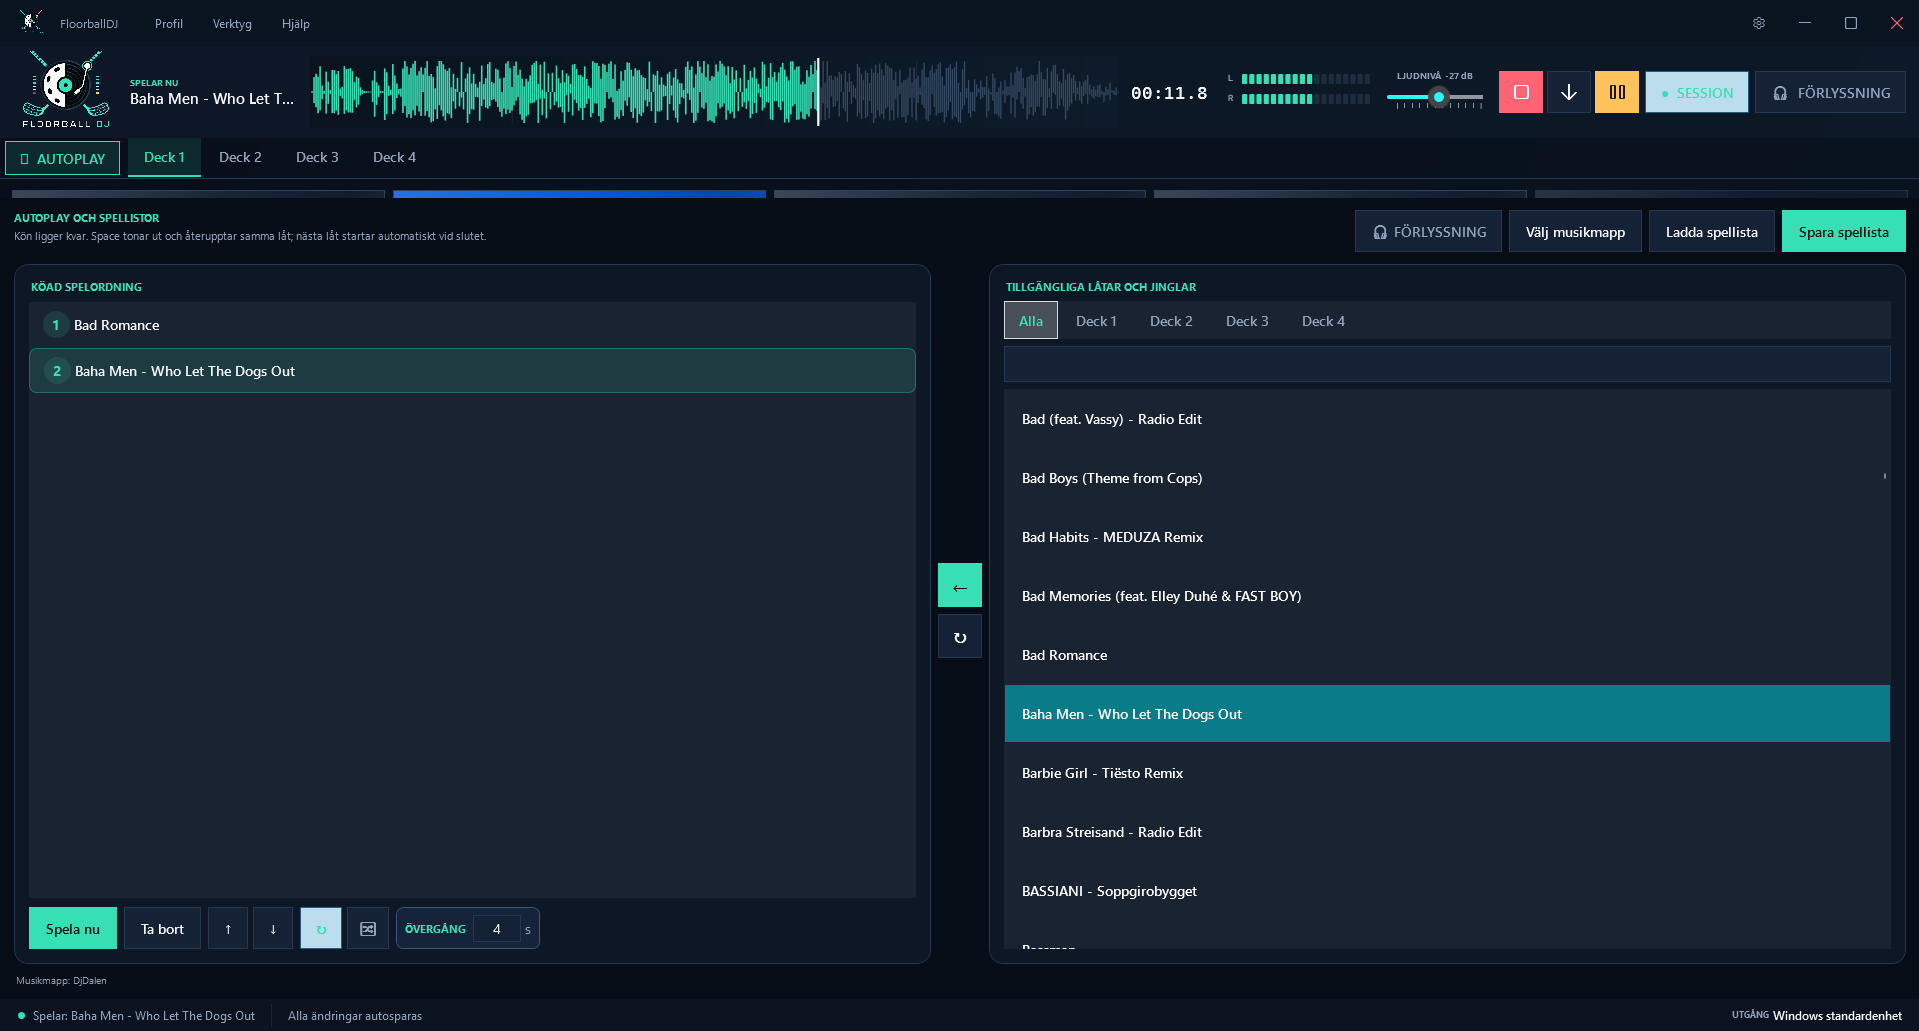
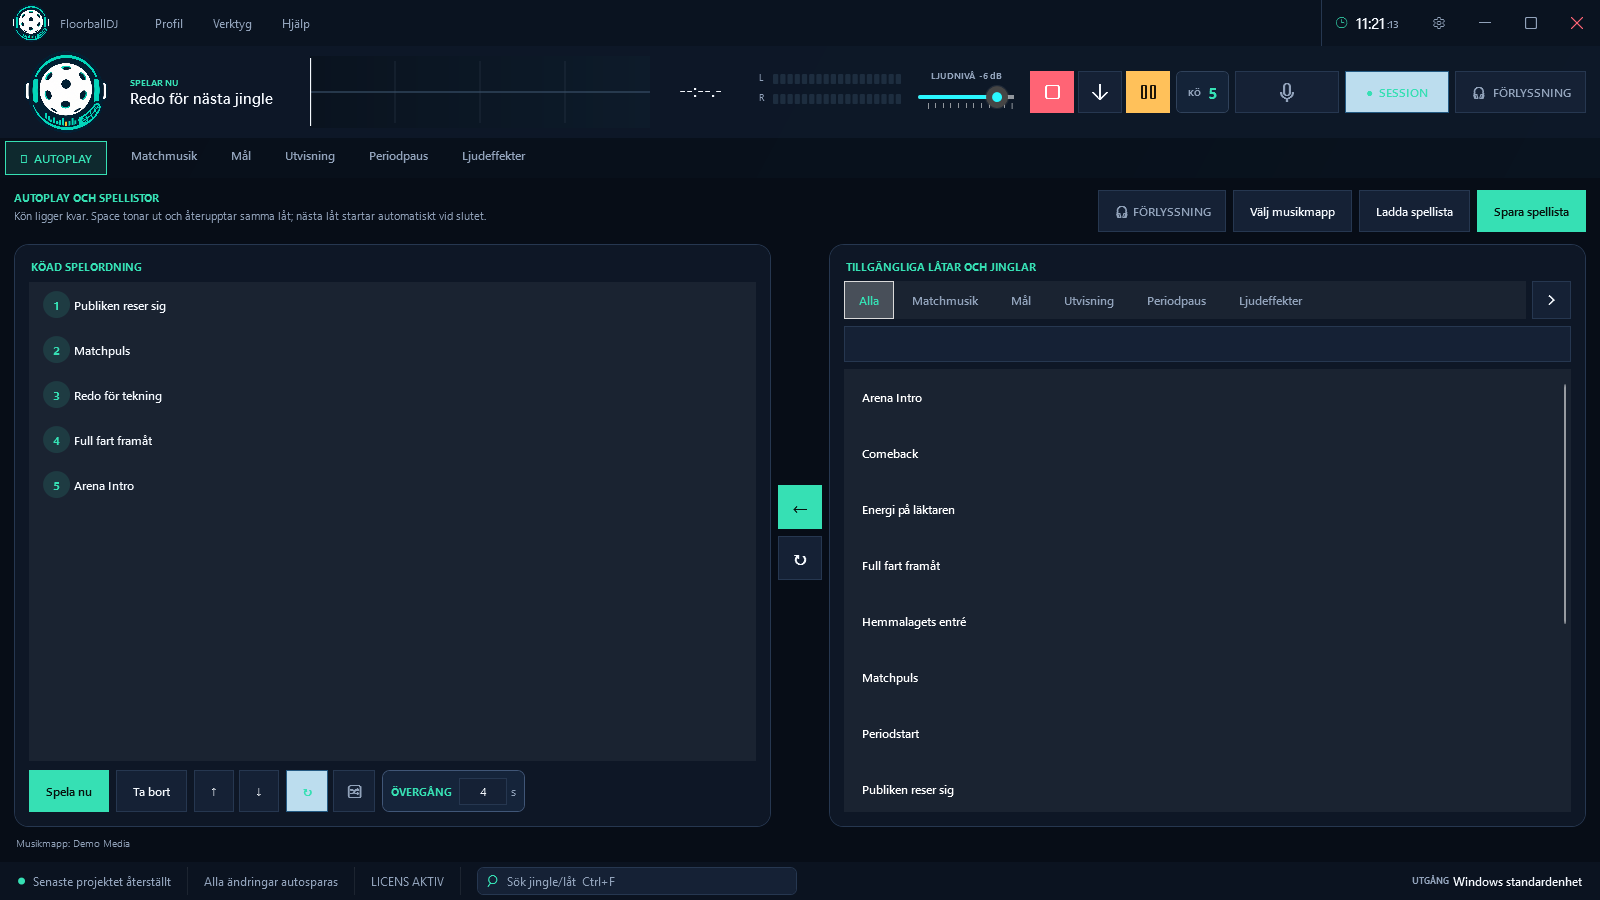
Refresh website product screenshots

diff --git a/website/funktioner/index.html b/website/funktioner/index.html
@@ -2,7 +2,7 @@
 <html lang="sv">
 <head>
   <meta charset="utf-8"><meta name="viewport" content="width=device-width, initial-scale=1"><meta name="theme-color" content="#07111f">
-  <meta name="description" content="Utforska FloorballDJ:s decks, Autoplay, ljudmixer, vågformer och ljudkontroll.">
+  <meta name="description" content="Utforska FloorballDJ:s decks, Autoplay, ljudmixer, slumpgrupper, Team Deck, vågformer och ljudkontroll.">
   <title>Funktioner och gränssnitt — FloorballDJ</title>
   <link rel="icon" href="/assets/floorballdj-logo.png" type="image/png"><link rel="stylesheet" href="/assets/styles.css">
   <script src="/assets/site-config.js?v=0.40.0-beta.19" defer></script><script src="/assets/app.js" defer></script>
@@ -30,10 +30,12 @@
 
     <section class="section showcase">
       <div class="section-heading reveal"><div><p class="eyebrow"><span></span> En modern arbetsstation</p><h2>Se läget. Träffa rätt.<br>Håll matchen levande.</h2></div><p>Aktiv jingle, tid kvar, ljudnivåer och nästa val finns där blicken redan är. Gränssnittet fyller skärmen utan att gömma det viktiga.</p></div>
-      <figure class="app-frame app-frame-main reveal"><div class="window-bar"><i></i><i></i><i></i><span>FloorballDJ</span></div><img src="/assets/floorballdj-decks.png" alt="FloorballDJ med färgkodade jingleknappar i ett deck"></figure>
+      <figure class="app-frame app-frame-main reveal"><div class="window-bar"><i></i><i></i><i></i><span>FloorballDJ</span></div><img src="/assets/floorballdj-decks.png?v=20260823" alt="FloorballDJ med färgkodade jingleknappar i ett deck"></figure>
       <div class="showcase-grid">
-        <figure class="app-frame reveal"><div class="window-label">Autoplay</div><img src="/assets/floorballdj-autoplay.png" alt="Autoplay-vyn med köad spelordning och tillgängliga låtar" loading="lazy"><figcaption><strong>Planera nästa sekvens</strong><span>Deckfilter, kö, övergångar och dragbar spelordning.</span></figcaption></figure>
-        <figure class="app-frame reveal"><div class="window-label">Ljudmixer</div><img src="/assets/floorballdj-mixer.png" alt="Jingle-egenskaper med vågform och LUFS-balansering" loading="lazy"><figcaption><strong>Förbered ljudet exakt</strong><span>Trimning, vågform, nivåanalys och individuella inställningar.</span></figcaption></figure>
+        <figure class="app-frame reveal"><div class="window-label">Autoplay</div><img src="/assets/floorballdj-autoplay.png?v=20260823" alt="Autoplay-vyn med köad spelordning och tillgängliga låtar" loading="lazy"><figcaption><strong>Planera nästa sekvens</strong><span>Deckfilter, kö, övergångar och dragbar spelordning.</span></figcaption></figure>
+        <figure class="app-frame reveal"><div class="window-label">Ljudmixer</div><img src="/assets/floorballdj-mixer.png?v=20260823" alt="Jingle-egenskaper med vågform och LUFS-balansering" loading="lazy"><figcaption><strong>Förbered ljudet exakt</strong><span>Trimning, vågform, nivåanalys och individuella inställningar.</span></figcaption></figure>
+        <figure class="app-frame reveal"><div class="window-label">Slumpmässig låtspelare</div><img src="/assets/floorballdj-random-player.png?v=20260823" alt="Slumpmässig låtspelare med situationsstyrda ljudpooler" loading="lazy"><figcaption><strong>Bygg pooler för matchsituationer</strong><span>Separata grupper för mål, publik och ljudeffekter med egna snabbtangenter.</span></figcaption></figure>
+        <figure class="app-frame reveal"><div class="window-label">Team Deck</div><img src="/assets/floorballdj-team-deck.png?v=20260823" alt="Team Deck med måljingle och spelarövergångar" loading="lazy"><figcaption><strong>Ge varje spelare sin övergång</strong><span>Ställ måljingle, övergångspunkt och individuell spelarlåt för laget.</span></figcaption></figure>
       </div>
     </section>
 

diff --git a/website/index.html b/website/index.html
@@ -74,7 +74,7 @@
         <div><p class="eyebrow"><span></span> Arbetsytan</p><h2>Allt viktigt inom räckhåll.</h2></div>
         <p>Aktiv jingle, tid kvar, ljudnivåer och nästa val finns där blicken redan är.</p>
       </div>
-      <figure class="app-frame app-frame-main reveal"><div class="window-bar"><i></i><i></i><i></i><span>FloorballDJ</span></div><img src="/assets/floorballdj-decks.png" alt="FloorballDJ med färgkodade jingleknappar i ett deck"></figure>
+      <figure class="app-frame app-frame-main reveal"><div class="window-bar"><i></i><i></i><i></i><span>FloorballDJ</span></div><img src="/assets/floorballdj-decks.png?v=20260823" alt="FloorballDJ med färgkodade jingleknappar i ett deck"></figure>
       <div class="center-action reveal"><a class="button button-secondary" href="/funktioner/">Se funktioner och hela gränssnittet <i aria-hidden="true">→</i></a></div>
     </section>
 
